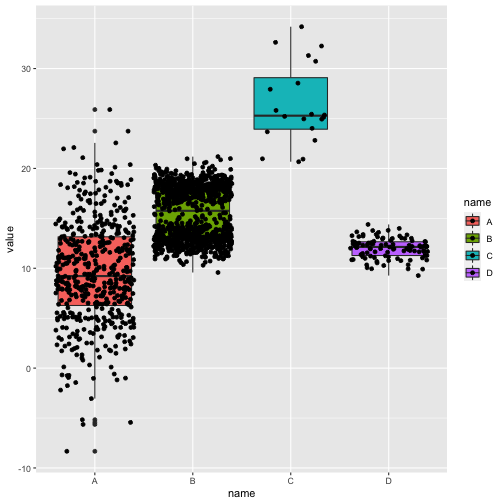
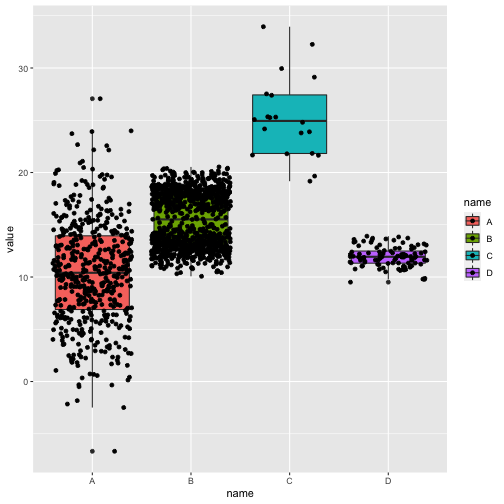
update slides

diff --git a/slides/presentations-week-5.html b/slides/presentations-week-5.html
@@ -98,13 +98,13 @@ class: inverse, center, middle
 
 **Outline**
 
-1. Why visualize data?
-1. How can we visualize data in R?
-1. And, how can we make our visualizations aesthetically pleasing?
+A. Why visualize data?
+B. How can we visualize data in R?
+C. And, how can we make our visualizations aesthetically pleasing?
 
 ---
 
-# 1. Why visualize data?
+# 1A: Why visualize data?
 
 One answer: 
 
@@ -117,7 +117,7 @@ One answer:
 
 ---
 
-# 1. Why visualize data?
+# 1A: Why visualize data?
 
 These four different data sets have the same correlation (type `anscombe` in R to view the data), but are very different
 
@@ -125,7 +125,7 @@ These four different data sets have the same correlation (type `anscombe` in R t
 
 ---
 
-# 1. Why visualize data
+# 1A: Why visualize data
 
 Another reason to visualize data is to *communicate with others*; you can use visualizations to communicate your findings or results. In example:
 
@@ -138,7 +138,7 @@ https://apreshill.github.io/ohsu-biodatavis/slides.html#33
 
 ---
 
-### 2. How to visualize data
+# 1B: How to visualize data
 
 One way to think about visualizing data is in terms of the _type_ of visualization you create:
 
@@ -151,7 +151,7 @@ One way to think about visualizing data is in terms of the _type_ of visualizati
 
 ---
 
-### 2. How to visualize data
+# 1B: How to visualize data
 
 Another way to think about visualizing data is in terms of the elements that make up a plot.
 
@@ -166,7 +166,7 @@ Why a grammar of graphics?
 
 ---
 
-### 2. How to visualize data?
+# 1B: How to visualize data?
 
 One view of visualizations is that they consist of four components:
 
@@ -177,7 +177,7 @@ One view of visualizations is that they consist of four components:
 
 ---
 
-### 2. How to visualize data?
+# 1B: How to visualize data?
 
 Let's see how this might appear:
 
@@ -192,16 +192,16 @@ data
 ## # A tibble: 1,620 x 2
 ##    name  value
 ##    &lt;chr&gt; &lt;dbl&gt;
-##  1 A     16.6 
-##  2 A      7.02
-##  3 A      6.55
-##  4 A      7.84
-##  5 A      5.04
-##  6 A      6.54
-##  7 A      7.94
-##  8 A     13.9 
-##  9 A      5.10
-## 10 A     10.1 
+##  1 A     10.8 
+##  2 A      7.40
+##  3 A     16.3 
+##  4 A      7.36
+##  5 A     11.1 
+##  6 A     11.6 
+##  7 A     12.3 
+##  8 A      5.85
+##  9 A     10.0 
+## 10 A     10.5 
 ## # … with 1,610 more rows
 ```
 
@@ -215,13 +215,13 @@ data %&gt;%
 
 ---
 
-### 2. How to visualize data?
+# 1B: How to visualize data?
 
 ![](presentations-week-5_files/figure-html/unnamed-chunk-10-1.png)&lt;!-- --&gt;
 
 ---
 
-### 2. How to visualize data
+# 1B: How to visualize data
 
 You can easily create different plots by:
 
@@ -230,7 +230,7 @@ You can easily create different plots by:
 
 ---
 
-### 2 How to visualize data
+# 1B: How to visualize data
 
 **Example A**
 
@@ -238,7 +238,7 @@ You can easily create different plots by:
 
 
 
-### 2. How to visualize data
+# 1B: How to visualize data
 
 **Example B**
 
@@ -248,7 +248,7 @@ You can easily create different plots by:
 
 ---
 
-### 3. How to make visualizations aesthetically pleasing
+# 1C: How to make visualizations aesthetically pleasing
 
 _Theming and fine-tuning_
 
@@ -277,7 +277,7 @@ class: inverse, center, middle
 
 ---
 
-### How does tidying data relate to data viz?
+### 2: How does tidying data relate to data viz?
 
 Often, we have to make changes to our data frame in order to create the visualization we would like to create.
 
@@ -294,13 +294,13 @@ class: inverse, center, middle
 ---
 
 
-### Why data ethics?
+### 3: Why data ethics?
 
 With great power comes great responsibility
 
 ---
 
-### Examples of positive and negative data ethics
+### 3: Examples of positive and negative data ethics
 
 &lt;!-- Josh to add --&gt;
 
